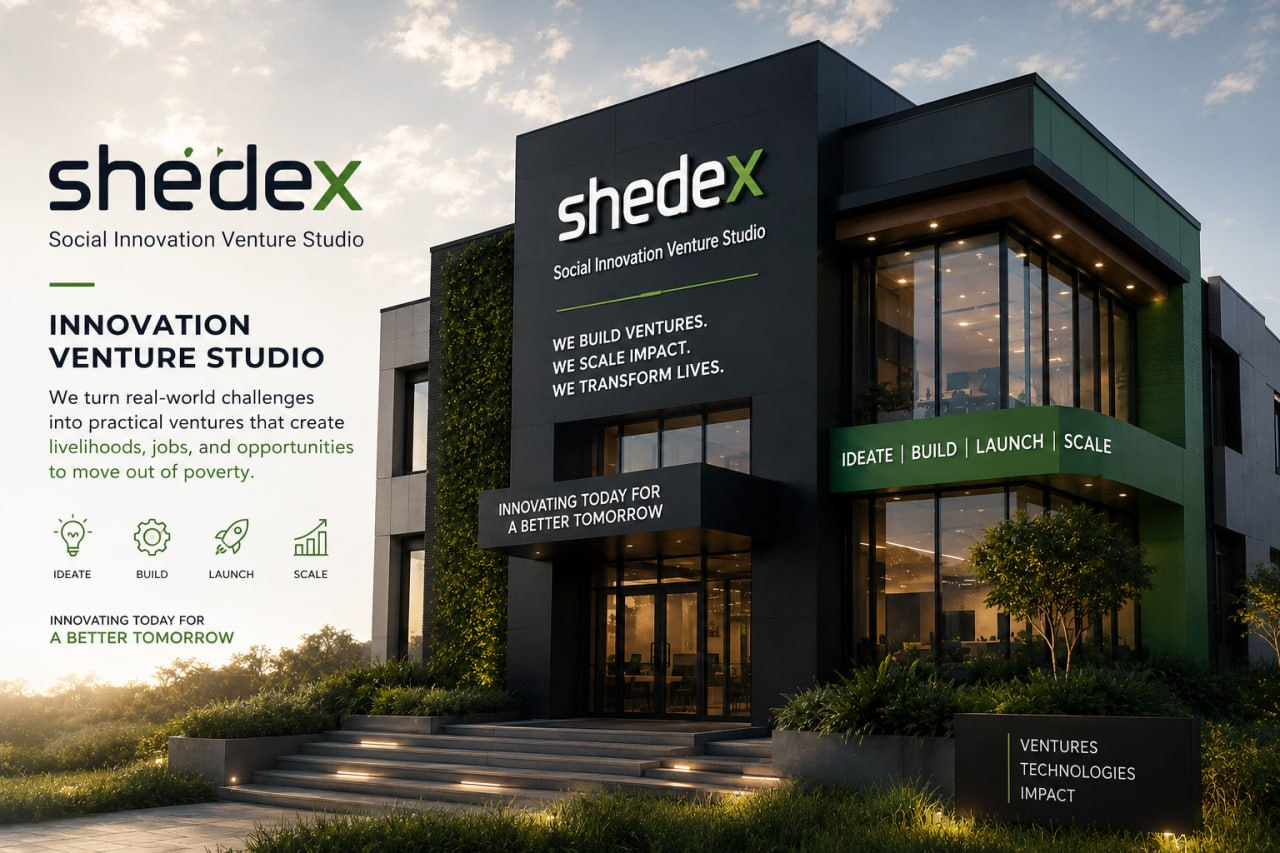
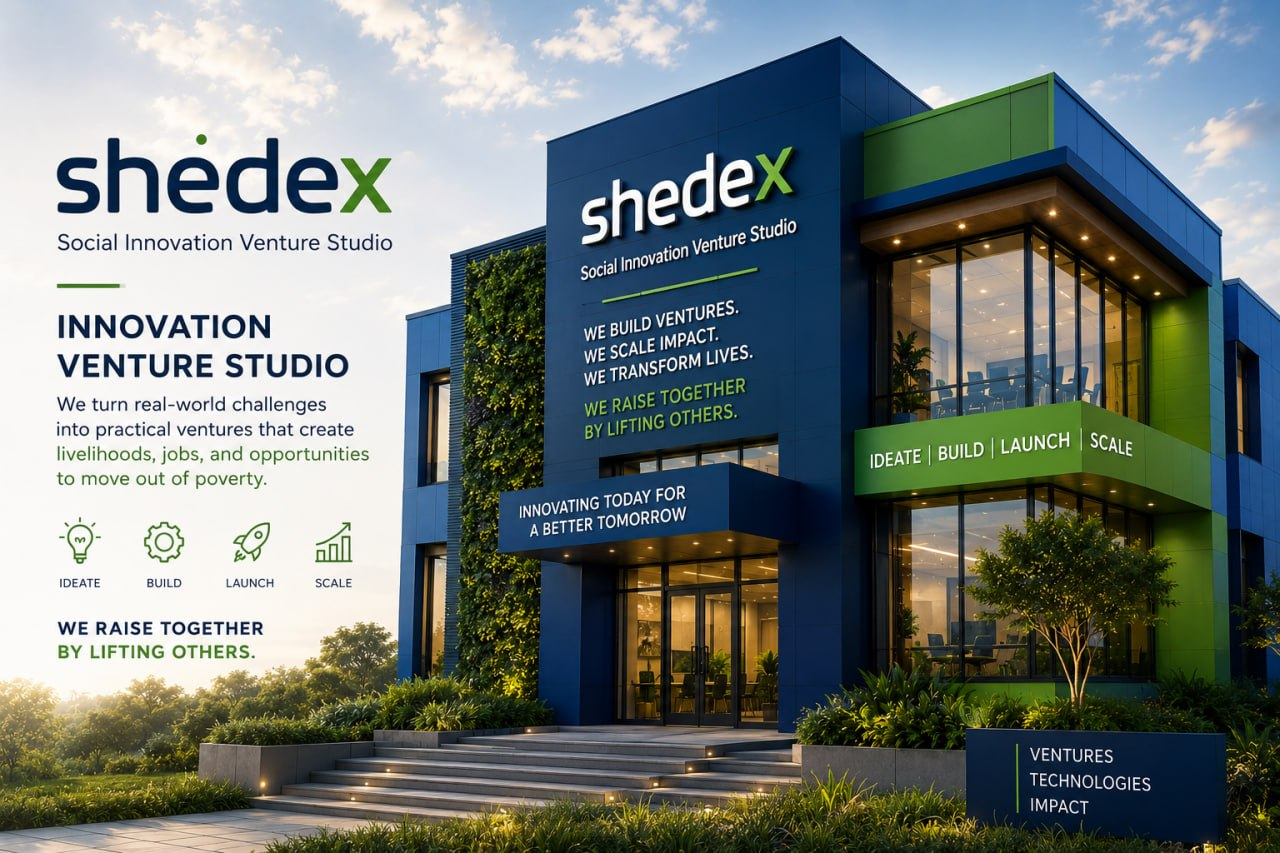
commit

diff --git a/static/css/styles.css b/static/css/styles.css
@@ -455,7 +455,7 @@ textarea:focus-visible, select:focus-visible, label:focus-visible {
 }
 .hero-visual-img {
   width: 100%;
-  max-width: 440px;
+  max-width: 560px;
   height: auto;
   display: block;
   border-radius: 16px;
@@ -1010,7 +1010,7 @@ textarea:focus-visible, select:focus-visible, label:focus-visible {
 }
 .project-highlight-flex { display: flex; flex-wrap: wrap; }
 .project-highlight-body { flex: 1; min-width: 300px; padding: 40px; }
-.project-highlight-image { flex: 0 0 380px; min-width: 300px; position: relative; }
+.project-highlight-image { flex: 0 0 480px; min-width: 300px; position: relative; }
 .project-highlight-image img {
   width: 100%;
   height: 100%;
@@ -1129,7 +1129,7 @@ textarea:focus-visible, select:focus-visible, label:focus-visible {
 }
 .project-image {
   width: 100%;
-  height: 170px;
+  height: 220px;
   object-fit: cover;
   background: #ddd;
 }
@@ -1320,7 +1320,7 @@ textarea:focus-visible, select:focus-visible, label:focus-visible {
   transform: translateY(-5px);
   box-shadow: 0 12px 35px rgba(0,0,0,0.12);
 }
-.news-card img { width: 100%; height: 180px; object-fit: cover; }
+.news-card img { width: 100%; height: 230px; object-fit: cover; }
 .news-body { padding: 20px; display: flex; flex-direction: column; flex-grow: 1; }
 .news-date { font-size: 11px; color: var(--sigma-green); font-weight: 600; margin-bottom: 8px; }
 .news-body h3 {

diff --git a/templates/base.html b/templates/base.html
@@ -30,6 +30,16 @@
 
 <a class="skip-link" href="#main">Skip to main content</a>
 
+<!-- ===== TICKER ===== -->
+<div class="ticker-bar" aria-hidden="true">
+  <div class="ticker-track">
+    <span class="ticker-item">We Rise Together by Lifting Others</span>
+    <span class="ticker-item">We Rise Together by Lifting Others</span>
+    <span class="ticker-item">We Rise Together by Lifting Others</span>
+    <span class="ticker-item">We Rise Together by Lifting Others</span>
+  </div>
+</div>
+
 <!-- ===== NAVBAR ===== -->
 <nav class="navbar" aria-label="Main navigation">
   <a href="{% url 'home' %}" class="logo-link" aria-label="Shedex — Home">
